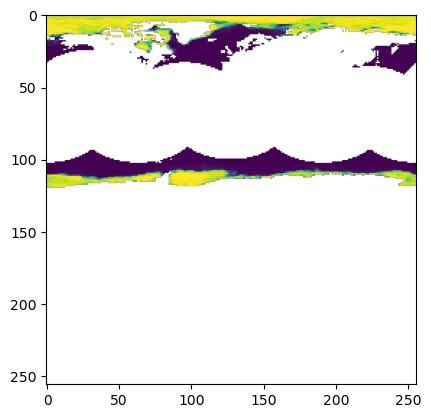
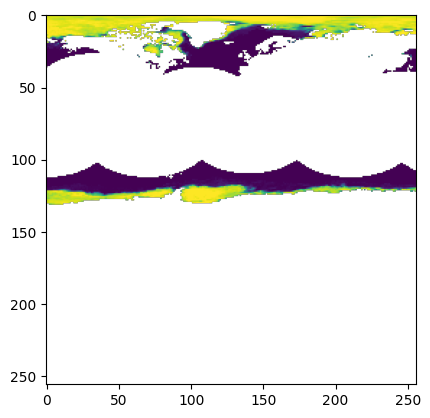
Built site for gh-pages

diff --git a/examples/05_WIP_multiscales_as_customTMS_ZarrV2.html b/examples/05_WIP_multiscales_as_customTMS_ZarrV2.html
@@ -198,36 +198,90 @@ These variables have a CF-compliant standard name: ['time', 'lat', 'lon', 'analy
 <section id="define-a-custom-tms" class="level2">
 <h2 class="anchored" data-anchor-id="define-a-custom-tms">Define a custom TMS</h2>
 <div id="cell-13" class="cell" data-execution_count="7">
-<div class="sourceCode cell-code" id="cb8"><pre class="sourceCode python code-with-copy"><code class="sourceCode python"><span id="cb8-1"><a href="#cb8-1" aria-hidden="true" tabindex="-1"></a>x_chunk_size <span class="op">=</span> <span class="dv">512</span></span>
-<span id="cb8-2"><a href="#cb8-2" aria-hidden="true" tabindex="-1"></a>y_chunk_size <span class="op">=</span> <span class="dv">512</span></span>
-<span id="cb8-3"><a href="#cb8-3" aria-hidden="true" tabindex="-1"></a></span>
-<span id="cb8-4"><a href="#cb8-4" aria-hidden="true" tabindex="-1"></a><span class="cf">with</span> XarrayReader(ds[var]) <span class="im">as</span> dst_wmq:</span>
-<span id="cb8-5"><a href="#cb8-5" aria-hidden="true" tabindex="-1"></a>    pyproj_crs <span class="op">=</span> pyproj.CRS.from_wkt(dst_wmq.crs.to_wkt())</span>
-<span id="cb8-6"><a href="#cb8-6" aria-hidden="true" tabindex="-1"></a>    <span class="bu">print</span>(<span class="ss">f"crs: </span><span class="sc">{</span>pyproj_crs<span class="sc">}</span><span class="ss">"</span>)</span>
-<span id="cb8-7"><a href="#cb8-7" aria-hidden="true" tabindex="-1"></a>    bounds <span class="op">=</span> dst_wmq.bounds</span>
-<span id="cb8-8"><a href="#cb8-8" aria-hidden="true" tabindex="-1"></a>    <span class="bu">print</span>(<span class="ss">f"bounds: </span><span class="sc">{</span>bounds<span class="sc">}</span><span class="ss">"</span>)</span>
-<span id="cb8-9"><a href="#cb8-9" aria-hidden="true" tabindex="-1"></a></span>
-<span id="cb8-10"><a href="#cb8-10" aria-hidden="true" tabindex="-1"></a>    maxzoom <span class="op">=</span> get_maximum_overview_level(</span>
-<span id="cb8-11"><a href="#cb8-11" aria-hidden="true" tabindex="-1"></a>        ds[var].shape[<span class="dv">2</span>], ds[var].shape[<span class="dv">1</span>], minsize<span class="op">=</span><span class="bu">min</span>(x_chunk_size, y_chunk_size)</span>
-<span id="cb8-12"><a href="#cb8-12" aria-hidden="true" tabindex="-1"></a>    )</span>
-<span id="cb8-13"><a href="#cb8-13" aria-hidden="true" tabindex="-1"></a></span>
-<span id="cb8-14"><a href="#cb8-14" aria-hidden="true" tabindex="-1"></a>    custom_tms <span class="op">=</span> morecantile.TileMatrixSet.custom(</span>
-<span id="cb8-15"><a href="#cb8-15" aria-hidden="true" tabindex="-1"></a>        extent<span class="op">=</span>bounds,</span>
-<span id="cb8-16"><a href="#cb8-16" aria-hidden="true" tabindex="-1"></a>        crs<span class="op">=</span>pyproj_crs,</span>
-<span id="cb8-17"><a href="#cb8-17" aria-hidden="true" tabindex="-1"></a>        tile_width<span class="op">=</span>x_chunk_size,</span>
-<span id="cb8-18"><a href="#cb8-18" aria-hidden="true" tabindex="-1"></a>        tile_height<span class="op">=</span>y_chunk_size,</span>
-<span id="cb8-19"><a href="#cb8-19" aria-hidden="true" tabindex="-1"></a>        minzoom<span class="op">=</span><span class="dv">0</span>,</span>
-<span id="cb8-20"><a href="#cb8-20" aria-hidden="true" tabindex="-1"></a>        maxzoom<span class="op">=</span>maxzoom,</span>
-<span id="cb8-21"><a href="#cb8-21" aria-hidden="true" tabindex="-1"></a>        matrix_scale<span class="op">=</span>[<span class="dv">1</span>, <span class="dv">1</span>],</span>
-<span id="cb8-22"><a href="#cb8-22" aria-hidden="true" tabindex="-1"></a>        decimation_base<span class="op">=</span><span class="dv">2</span>,</span>
-<span id="cb8-23"><a href="#cb8-23" aria-hidden="true" tabindex="-1"></a>    )</span>
-<span id="cb8-24"><a href="#cb8-24" aria-hidden="true" tabindex="-1"></a></span>
-<span id="cb8-25"><a href="#cb8-25" aria-hidden="true" tabindex="-1"></a><span class="cf">with</span> XarrayReader(ds[var], tms<span class="op">=</span>custom_tms) <span class="im">as</span> dst:</span>
-<span id="cb8-26"><a href="#cb8-26" aria-hidden="true" tabindex="-1"></a>    tile <span class="op">=</span> dst.tile(<span class="dv">0</span>, <span class="dv">0</span>, <span class="dv">0</span>).data</span>
+<div class="sourceCode cell-code" id="cb8"><pre class="sourceCode python code-with-copy"><code class="sourceCode python"><span id="cb8-1"><a href="#cb8-1" aria-hidden="true" tabindex="-1"></a><span class="im">from</span> morecantile.models <span class="im">import</span> TileMatrix, TileMatrixSet, crs_axis_inverted, TMSBoundingBox, CRS_to_uri</span>
+<span id="cb8-2"><a href="#cb8-2" aria-hidden="true" tabindex="-1"></a><span class="im">from</span> morecantile.utils <span class="im">import</span> meters_per_unit</span>
+<span id="cb8-3"><a href="#cb8-3" aria-hidden="true" tabindex="-1"></a><span class="im">import</span> math</span>
+<span id="cb8-4"><a href="#cb8-4" aria-hidden="true" tabindex="-1"></a></span>
+<span id="cb8-5"><a href="#cb8-5" aria-hidden="true" tabindex="-1"></a>x_chunk_size <span class="op">=</span> <span class="dv">512</span></span>
+<span id="cb8-6"><a href="#cb8-6" aria-hidden="true" tabindex="-1"></a>y_chunk_size <span class="op">=</span> <span class="dv">512</span></span>
+<span id="cb8-7"><a href="#cb8-7" aria-hidden="true" tabindex="-1"></a></span>
+<span id="cb8-8"><a href="#cb8-8" aria-hidden="true" tabindex="-1"></a>dst_height <span class="op">=</span> ds[var].shape[<span class="dv">1</span>]</span>
+<span id="cb8-9"><a href="#cb8-9" aria-hidden="true" tabindex="-1"></a>dst_width <span class="op">=</span> ds[var].shape[<span class="dv">2</span>]</span>
+<span id="cb8-10"><a href="#cb8-10" aria-hidden="true" tabindex="-1"></a></span>
+<span id="cb8-11"><a href="#cb8-11" aria-hidden="true" tabindex="-1"></a>decimation_base <span class="op">=</span> <span class="dv">2</span></span>
+<span id="cb8-12"><a href="#cb8-12" aria-hidden="true" tabindex="-1"></a></span>
+<span id="cb8-13"><a href="#cb8-13" aria-hidden="true" tabindex="-1"></a>pyproj_crs <span class="op">=</span> pyproj.CRS.from_epsg(<span class="dv">4326</span>)</span>
+<span id="cb8-14"><a href="#cb8-14" aria-hidden="true" tabindex="-1"></a><span class="bu">print</span>(<span class="ss">f"crs: </span><span class="sc">{</span>pyproj_crs<span class="sc">}</span><span class="ss">"</span>)</span>
+<span id="cb8-15"><a href="#cb8-15" aria-hidden="true" tabindex="-1"></a></span>
+<span id="cb8-16"><a href="#cb8-16" aria-hidden="true" tabindex="-1"></a>bounds <span class="op">=</span> <span class="bu">tuple</span>(ds[var].rio.bounds())</span>
+<span id="cb8-17"><a href="#cb8-17" aria-hidden="true" tabindex="-1"></a><span class="bu">print</span>(<span class="ss">f"bounds: </span><span class="sc">{</span>bounds<span class="sc">}</span><span class="ss">"</span>)</span>
+<span id="cb8-18"><a href="#cb8-18" aria-hidden="true" tabindex="-1"></a></span>
+<span id="cb8-19"><a href="#cb8-19" aria-hidden="true" tabindex="-1"></a>is_inverted <span class="op">=</span> crs_axis_inverted(pyproj_crs)</span>
+<span id="cb8-20"><a href="#cb8-20" aria-hidden="true" tabindex="-1"></a></span>
+<span id="cb8-21"><a href="#cb8-21" aria-hidden="true" tabindex="-1"></a>overview_level <span class="op">=</span> get_maximum_overview_level(</span>
+<span id="cb8-22"><a href="#cb8-22" aria-hidden="true" tabindex="-1"></a>    dst_width,</span>
+<span id="cb8-23"><a href="#cb8-23" aria-hidden="true" tabindex="-1"></a>    dst_height,</span>
+<span id="cb8-24"><a href="#cb8-24" aria-hidden="true" tabindex="-1"></a>    minsize<span class="op">=</span><span class="bu">min</span>(x_chunk_size, y_chunk_size),</span>
+<span id="cb8-25"><a href="#cb8-25" aria-hidden="true" tabindex="-1"></a>)</span>
+<span id="cb8-26"><a href="#cb8-26" aria-hidden="true" tabindex="-1"></a>mpu <span class="op">=</span> meters_per_unit(pyproj_crs)</span>
 <span id="cb8-27"><a href="#cb8-27" aria-hidden="true" tabindex="-1"></a></span>
-<span id="cb8-28"><a href="#cb8-28" aria-hidden="true" tabindex="-1"></a>plt.imshow(tile.squeeze())</span></code><button title="Copy to Clipboard" class="code-copy-button"><i class="bi"></i></button></pre></div>
+<span id="cb8-28"><a href="#cb8-28" aria-hidden="true" tabindex="-1"></a><span class="co"># Rendering pixel size. 0.28 mm was the actual pixel size of a common display from 2005 and considered as standard by OGC.</span></span>
+<span id="cb8-29"><a href="#cb8-29" aria-hidden="true" tabindex="-1"></a>screen_pixel_size <span class="op">=</span> <span class="fl">0.28e-3</span></span>
+<span id="cb8-30"><a href="#cb8-30" aria-hidden="true" tabindex="-1"></a></span>
+<span id="cb8-31"><a href="#cb8-31" aria-hidden="true" tabindex="-1"></a>x_origin <span class="op">=</span> bounds[<span class="dv">0</span>] <span class="cf">if</span> <span class="kw">not</span> is_inverted <span class="cf">else</span> bounds[<span class="dv">3</span>]</span>
+<span id="cb8-32"><a href="#cb8-32" aria-hidden="true" tabindex="-1"></a>y_origin <span class="op">=</span> bounds[<span class="dv">3</span>] <span class="cf">if</span> <span class="kw">not</span> is_inverted <span class="cf">else</span> bounds[<span class="dv">0</span>]</span>
+<span id="cb8-33"><a href="#cb8-33" aria-hidden="true" tabindex="-1"></a></span>
+<span id="cb8-34"><a href="#cb8-34" aria-hidden="true" tabindex="-1"></a>width <span class="op">=</span> <span class="bu">abs</span>(bounds[<span class="dv">2</span>] <span class="op">-</span> bounds[<span class="dv">0</span>])</span>
+<span id="cb8-35"><a href="#cb8-35" aria-hidden="true" tabindex="-1"></a>height <span class="op">=</span> <span class="bu">abs</span>(bounds[<span class="dv">3</span>] <span class="op">-</span> bounds[<span class="dv">1</span>])</span>
+<span id="cb8-36"><a href="#cb8-36" aria-hidden="true" tabindex="-1"></a>res <span class="op">=</span> <span class="bu">max</span>(width <span class="op">/</span> dst_width, height <span class="op">/</span> dst_height)</span>
+<span id="cb8-37"><a href="#cb8-37" aria-hidden="true" tabindex="-1"></a></span>
+<span id="cb8-38"><a href="#cb8-38" aria-hidden="true" tabindex="-1"></a>matrices <span class="op">=</span> [</span>
+<span id="cb8-39"><a href="#cb8-39" aria-hidden="true" tabindex="-1"></a>    TileMatrix(</span>
+<span id="cb8-40"><a href="#cb8-40" aria-hidden="true" tabindex="-1"></a>        description<span class="op">=</span><span class="st">"TileMatrix for the high resolution data"</span>,</span>
+<span id="cb8-41"><a href="#cb8-41" aria-hidden="true" tabindex="-1"></a>        <span class="bu">id</span><span class="op">=</span><span class="bu">str</span>(overview_level),</span>
+<span id="cb8-42"><a href="#cb8-42" aria-hidden="true" tabindex="-1"></a>        scaleDenominator<span class="op">=</span>res <span class="op">*</span> mpu <span class="op">/</span> screen_pixel_size,</span>
+<span id="cb8-43"><a href="#cb8-43" aria-hidden="true" tabindex="-1"></a>        cellSize<span class="op">=</span>res,</span>
+<span id="cb8-44"><a href="#cb8-44" aria-hidden="true" tabindex="-1"></a>        pointOfOrigin<span class="op">=</span>[x_origin, y_origin],</span>
+<span id="cb8-45"><a href="#cb8-45" aria-hidden="true" tabindex="-1"></a>        tileWidth<span class="op">=</span>x_chunk_size,</span>
+<span id="cb8-46"><a href="#cb8-46" aria-hidden="true" tabindex="-1"></a>        tileHeight<span class="op">=</span>y_chunk_size,</span>
+<span id="cb8-47"><a href="#cb8-47" aria-hidden="true" tabindex="-1"></a>        matrixWidth<span class="op">=</span>math.ceil(dst_width <span class="op">/</span> x_chunk_size),</span>
+<span id="cb8-48"><a href="#cb8-48" aria-hidden="true" tabindex="-1"></a>        matrixHeight<span class="op">=</span>math.ceil(dst_height <span class="op">/</span> y_chunk_size),</span>
+<span id="cb8-49"><a href="#cb8-49" aria-hidden="true" tabindex="-1"></a>    )</span>
+<span id="cb8-50"><a href="#cb8-50" aria-hidden="true" tabindex="-1"></a>]</span>
+<span id="cb8-51"><a href="#cb8-51" aria-hidden="true" tabindex="-1"></a></span>
+<span id="cb8-52"><a href="#cb8-52" aria-hidden="true" tabindex="-1"></a><span class="cf">for</span> ovr <span class="kw">in</span> <span class="bu">range</span>(<span class="dv">1</span>, overview_level <span class="op">+</span> <span class="dv">1</span>):</span>
+<span id="cb8-53"><a href="#cb8-53" aria-hidden="true" tabindex="-1"></a>    decimation <span class="op">=</span> decimation_base <span class="op">**</span> ovr</span>
+<span id="cb8-54"><a href="#cb8-54" aria-hidden="true" tabindex="-1"></a>    new_res <span class="op">=</span> res <span class="op">*</span> decimation</span>
+<span id="cb8-55"><a href="#cb8-55" aria-hidden="true" tabindex="-1"></a>    matrices.append(</span>
+<span id="cb8-56"><a href="#cb8-56" aria-hidden="true" tabindex="-1"></a>        TileMatrix(</span>
+<span id="cb8-57"><a href="#cb8-57" aria-hidden="true" tabindex="-1"></a>            description<span class="op">=</span><span class="ss">f"TileMatrix for overview </span><span class="sc">{</span>ovr<span class="sc">}</span><span class="ss">"</span>,</span>
+<span id="cb8-58"><a href="#cb8-58" aria-hidden="true" tabindex="-1"></a>            <span class="bu">id</span><span class="op">=</span><span class="bu">str</span>(overview_level <span class="op">-</span> ovr),</span>
+<span id="cb8-59"><a href="#cb8-59" aria-hidden="true" tabindex="-1"></a>            scaleDenominator<span class="op">=</span>new_res <span class="op">*</span> mpu <span class="op">/</span> screen_pixel_size,</span>
+<span id="cb8-60"><a href="#cb8-60" aria-hidden="true" tabindex="-1"></a>            cellSize<span class="op">=</span>new_res,</span>
+<span id="cb8-61"><a href="#cb8-61" aria-hidden="true" tabindex="-1"></a>            pointOfOrigin<span class="op">=</span>[x_origin, y_origin],</span>
+<span id="cb8-62"><a href="#cb8-62" aria-hidden="true" tabindex="-1"></a>            tileWidth<span class="op">=</span>x_chunk_size,</span>
+<span id="cb8-63"><a href="#cb8-63" aria-hidden="true" tabindex="-1"></a>            tileHeight<span class="op">=</span>y_chunk_size,</span>
+<span id="cb8-64"><a href="#cb8-64" aria-hidden="true" tabindex="-1"></a>            matrixWidth<span class="op">=</span>math.ceil(dst_width <span class="op">/</span> decimation <span class="op">/</span> x_chunk_size),</span>
+<span id="cb8-65"><a href="#cb8-65" aria-hidden="true" tabindex="-1"></a>            matrixHeight<span class="op">=</span>math.ceil(dst_height <span class="op">/</span> decimation <span class="op">/</span> y_chunk_size),</span>
+<span id="cb8-66"><a href="#cb8-66" aria-hidden="true" tabindex="-1"></a>        )</span>
+<span id="cb8-67"><a href="#cb8-67" aria-hidden="true" tabindex="-1"></a>    )</span>
+<span id="cb8-68"><a href="#cb8-68" aria-hidden="true" tabindex="-1"></a></span>
+<span id="cb8-69"><a href="#cb8-69" aria-hidden="true" tabindex="-1"></a>matrices <span class="op">=</span> <span class="bu">reversed</span>(matrices)</span>
+<span id="cb8-70"><a href="#cb8-70" aria-hidden="true" tabindex="-1"></a></span>
+<span id="cb8-71"><a href="#cb8-71" aria-hidden="true" tabindex="-1"></a>custom_tms <span class="op">=</span> TileMatrixSet(</span>
+<span id="cb8-72"><a href="#cb8-72" aria-hidden="true" tabindex="-1"></a>    <span class="bu">id</span><span class="op">=</span><span class="st">"custom_tms"</span>,</span>
+<span id="cb8-73"><a href="#cb8-73" aria-hidden="true" tabindex="-1"></a>    title<span class="op">=</span><span class="ss">f"Custom TMS for </span><span class="sc">{</span>var<span class="sc">}</span><span class="ss"> variable"</span>,</span>
+<span id="cb8-74"><a href="#cb8-74" aria-hidden="true" tabindex="-1"></a>    tileMatrices<span class="op">=</span>matrices,</span>
+<span id="cb8-75"><a href="#cb8-75" aria-hidden="true" tabindex="-1"></a>    orderedAxes<span class="op">=</span>[<span class="st">"Lat"</span>, <span class="st">"Lon"</span>],</span>
+<span id="cb8-76"><a href="#cb8-76" aria-hidden="true" tabindex="-1"></a>    crs<span class="op">=</span><span class="st">"http://www.opengis.net/def/crs/EPSG/0/4326"</span>,</span>
+<span id="cb8-77"><a href="#cb8-77" aria-hidden="true" tabindex="-1"></a>)</span>
+<span id="cb8-78"><a href="#cb8-78" aria-hidden="true" tabindex="-1"></a></span>
+<span id="cb8-79"><a href="#cb8-79" aria-hidden="true" tabindex="-1"></a><span class="cf">with</span> XarrayReader(ds[var], tms<span class="op">=</span>custom_tms) <span class="im">as</span> dst:</span>
+<span id="cb8-80"><a href="#cb8-80" aria-hidden="true" tabindex="-1"></a>    tile <span class="op">=</span> dst.tile(<span class="dv">0</span>, <span class="dv">0</span>, <span class="dv">0</span>).data</span>
+<span id="cb8-81"><a href="#cb8-81" aria-hidden="true" tabindex="-1"></a></span>
+<span id="cb8-82"><a href="#cb8-82" aria-hidden="true" tabindex="-1"></a>plt.imshow(tile.squeeze())</span></code><button title="Copy to Clipboard" class="code-copy-button"><i class="bi"></i></button></pre></div>
 <div class="cell-output cell-output-stdout">
-<pre><code>crs: GEOGCS["WGS 84",DATUM["WGS_1984",SPHEROID["WGS 84",6378137,298.257223563,AUTHORITY["EPSG","7030"]],AUTHORITY["EPSG","6326"]],PRIMEM["Greenwich",0,AUTHORITY["EPSG","8901"]],UNIT["degree",0.0174532925199433,AUTHORITY["EPSG","9122"]],AXIS["Latitude",NORTH],AXIS["Longitude",EAST],AUTHORITY["EPSG","4326"]]
+<pre><code>crs: EPSG:4326
 bounds: (-179.99500549324037, -89.99499786365084, 180.0050000000763, 89.99499786365084)</code></pre>
 </div>
 <div class="cell-output cell-output-display">
